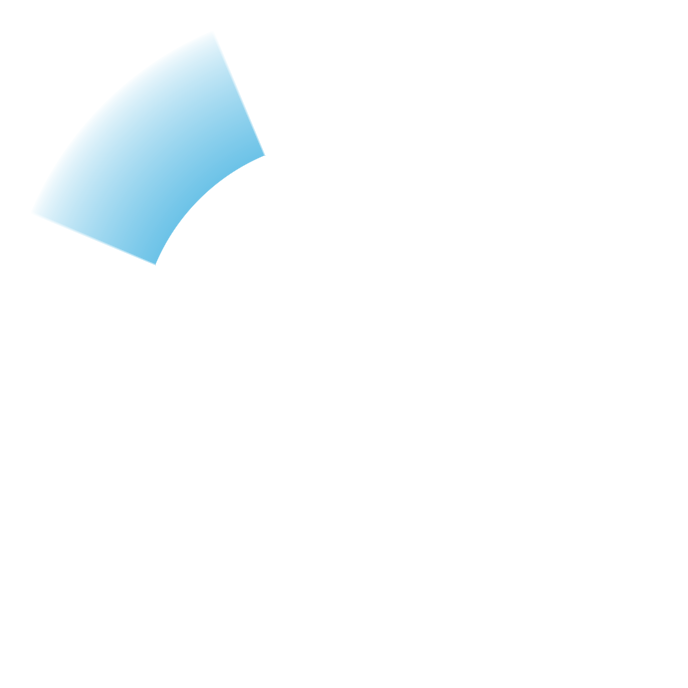
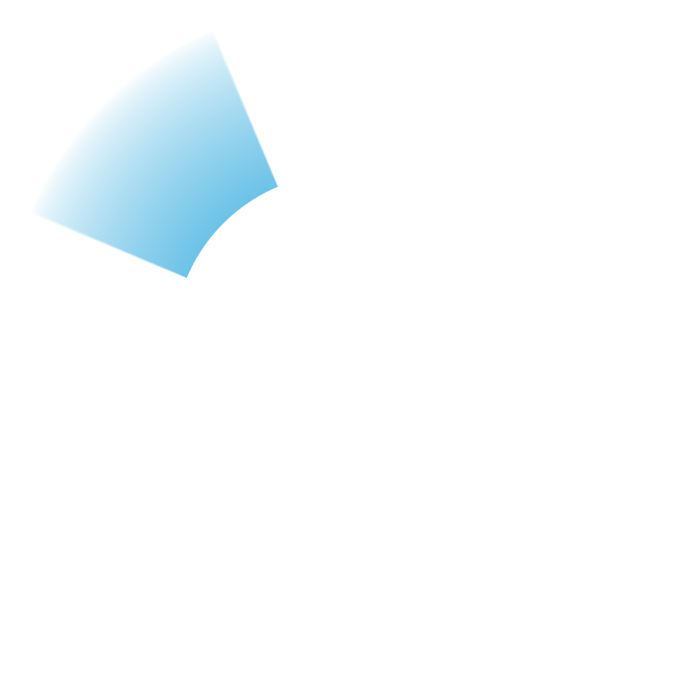
Match the reference wheel inner-to-outer radius ratio

Changed region(s): [[0.2137, 0.2137, 0.3968, 0.3968]]

diff --git a/tests/geometry.test.js b/tests/geometry.test.js
@@ -1,6 +1,6 @@
 import test from 'node:test';
 import assert from 'node:assert/strict';
-import { pickSlice, sectorCommands, circleCommands } from '../src/geometry.js';
+import { WHEEL, pickSlice, sectorCommands, circleCommands } from '../src/geometry.js';
 import { SIGNALS } from '../src/signals.js';
 
 test('wheel sectors follow the reference image clockwise from the top', () => {
@@ -14,6 +14,15 @@ test('the eight compass directions select clockwise wheel sectors', () => {
     const angle = (-90 + index * 45) * Math.PI / 180;
     assert.equal(pickSlice(Math.cos(angle) * 150, Math.sin(angle) * 150), index);
   }
+});
+
+test('the center radius is half the outer radius and selection begins at the inner edge', () => {
+  assert.equal(WHEEL.innerRadius / WHEEL.outerRadius, 0.5);
+  assert.equal(pickSlice(WHEEL.innerRadius - 1, 0), -1);
+  assert.equal(pickSlice(WHEEL.innerRadius, 0), 2);
+  const commands = sectorCommands(2);
+  assert.ok(Math.abs(Math.hypot(...commands[0].slice(1)) - WHEEL.innerRadius) < 0.0001);
+  assert.ok(Math.abs(Math.hypot(...commands[1].slice(1)) - WHEEL.outerRadius) < 0.0001);
 });
 
 test('the center and invalid pointer positions cancel', () => {

diff --git a/tests/extension.test.js b/tests/extension.test.js
@@ -435,7 +435,7 @@ test('wheel geometry and icons compensate zoom while labels retain their native 
     assert.equal(esc.scale.x * esc.image.width / esc.grid.dpi * 96, 32);
     assert.equal(esc.scale.y * esc.image.height / esc.grid.dpi * 96, 16);
     assert.ok(Math.abs(esc.position.x * scale + 27) < 0.0001);
-    assert.equal(WHEEL.innerRadius, 102);
+    assert.equal(WHEEL.innerRadius, 85);
     assert.equal(WHEEL.outerRadius, 170);
   }
 });

diff --git a/src/geometry.js b/src/geometry.js
@@ -1,4 +1,4 @@
-export const WHEEL = Object.freeze({ innerRadius: 102, outerRadius: 170, iconRadius: 132, iconSize: 48 });
+export const WHEEL = Object.freeze({ innerRadius: 85, outerRadius: 170, iconRadius: 128, iconSize: 48 });
 
 export function pickSlice(dx, dy, deadZone = WHEEL.innerRadius) {
   if (!Number.isFinite(dx) || !Number.isFinite(dy) || Math.hypot(dx, dy) < deadZone) return -1;

diff --git a/src/ui-assets.js b/src/ui-assets.js
@@ -1,6 +1,6 @@
 export function uiAssetsFor(base) {
   const image = (file, width, height = width) => ({
-    width, height, mime: 'image/png', url: new URL(`./ui/${file}.png`, base).href,
+    width, height, mime: 'image/png', url: new URL(`./ui/${file}.png?v=2`, base).href,
   });
   const rings = Object.fromEntries([
     ['#f12c55', 'red'], ['#d8c79a', 'gold'], ['#22b9e9', 'blue'],

diff --git a/scripts/generate-ui-assets.py b/scripts/generate-ui-assets.py
@@ -17,9 +17,9 @@ for index in range(8):
                 dx, dy = (x + 0.5) / 2 - 172, (y + 0.5) / 2 - 172
                 radius = hypot(dx, dy)
                 angle = (atan2(dy, dx) * 180 / pi + 112.5 - index * 45) % 360
-                if 102 <= radius <= 170 and angle < 45:
-                    radial = max(0, 1 - (radius - 102) / 68) ** 0.7
-                    edge = min(1, angle / 0.6, (45 - angle) / 0.6, (radius - 102) / 0.6)
+                if 85 <= radius <= 170 and angle < 45:
+                    radial = max(0, 1 - (radius - 85) / 85) ** 0.7
+                    edge = min(1, angle / 0.6, (45 - angle) / 0.6, (radius - 85) / 0.6)
                     pixels[x, y] = (*rgb, round(255 * opacity * radial * edge))
         image.save(OUTPUT / f"sector-{index}-{state}.png", optimize=True)
 

diff --git a/README.md b/README.md
@@ -26,7 +26,7 @@ npm run build
 
 Use the Vite URL for local extension development. `npm run build` writes the Owlbear manifest, background page, and assets to `dist/`; the build step converts manifest resource paths to the hosted GitHub Pages URLs.
 
-The transparent UI artwork is committed in `public/ui/`. Regenerate it with `python scripts/generate-ui-assets.py` on Windows with Pillow installed; Python and Pillow are not required to build or run the extension.
+The wheel's inner and outer radii are 85 and 170 CSS pixels (1:2), including the center selection boundary and sector artwork. The transparent UI artwork is committed in `public/ui/`. Regenerate it with `python scripts/generate-ui-assets.py` on Windows with Pillow installed; Python and Pillow are not required to build or run the extension.
 
 ## Two-client acceptance
 
